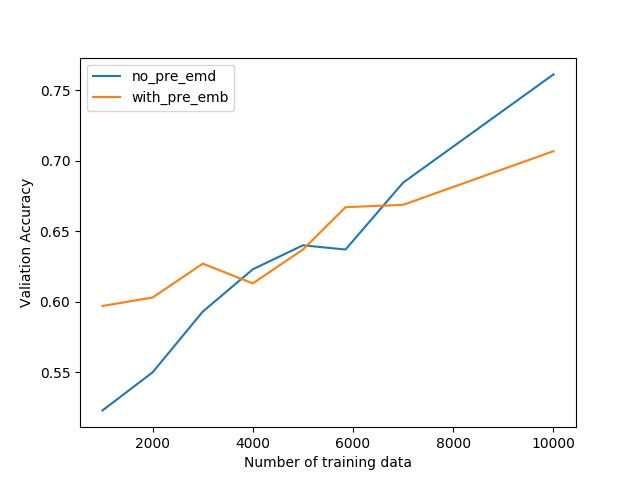
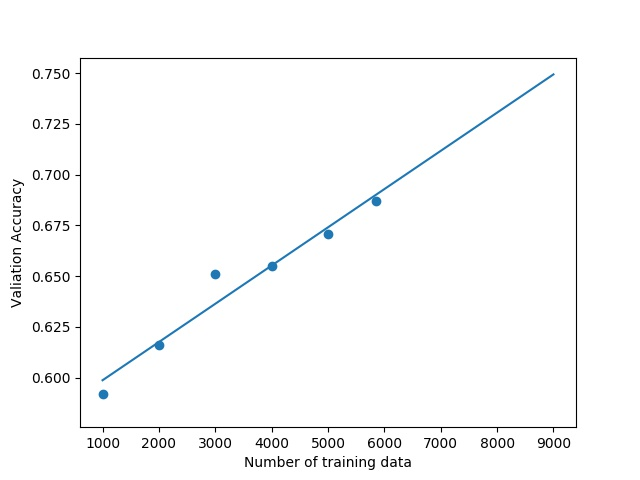
update

diff --git a/Transfer_Learning/Low_Resource_Text_Classification/main.py b/Transfer_Learning/Low_Resource_Text_Classification/main.py
@@ -9,8 +9,8 @@ from model.model import Model
 import numpy as np
 
 #mysterious bugs might occur with tensorflow if not adding full path
-FULL_PATH="D:/PycharmWorkSpace/Gits/Deep_Nature_Language_Processing/Transfer_Learning/Low_Resource_Text_Classification/model/saved_model/"
-PRETRAIN_FULL_PATH="D:/PycharmWorkSpace/Gits/Deep_Nature_Language_Processing/Transfer_Learning/Low_Resource_Text_Classification/model/"
+#FULL_PATH="D:/PycharmWorkSpace/Gits/Deep_Nature_Language_Processing/Transfer_Learning/Low_Resource_Text_Classification/model/saved_model/"
+PRETRAIN_PATH="./model/"
 MODEL_PATH=args.model_path
 RESULT_path=args.result_path
 
@@ -26,7 +26,7 @@ def train(file_name,embedding):
     number_samples=file_name.split("_")[1][:-9]
     model = Model(logger, vocab_size,embedding=embedding)
     classifier = tf.estimator.Estimator(
-        model_fn=model.model_fn,model_dir="C:\\Users\\zt136\\AppData\Local\\Temp\\model_"+number_samples, config=config)
+        model_fn=model.model_fn,model_dir=MODEL_PATH+"model_"+number_samples, config=config)
     for _ in range(args.n_epochs):
         classifier.train(lambda :recordLoader.train_input(file_name))
     logger.info("evaluating model on {} data samples....".format(number_samples))
@@ -42,7 +42,7 @@ def train(file_name,embedding):
 def pre_train(input,embedding):
     model = Model(logger, vocab_size, embedding=embedding)
     classifier = tf.estimator.Estimator(
-        model_fn=model.model_fn, model_dir=PRETRAIN_FULL_PATH + "pretrain", config=config)
+        model_fn=model.model_fn, model_dir=PRETRAIN_PATH + "pretrain", config=config)
     for _ in range(args.n_epochs):
         classifier.train(lambda :lmloader.input_fn(input),steps=args.num_steps)
 
@@ -85,7 +85,7 @@ if __name__ == '__main__':
                 args.load_model = True
                 train(train_files[i],embedding)
     else:
-        DATA_DIR = "F:/360Downloads/dailymail_stories/dailymail/stories/"
+        DATA_DIR = "./embedding/dailymail/stories/"
         PARAMS = {
             'min_freq': 5,
             'percent': 0.01,
@@ -95,10 +95,10 @@ if __name__ == '__main__':
         args.fine_tune = True
         args.amount = 1
         #open domain pretrain
-        # logger.info("start open domain pretraining ...")
-        # for i in range(args.amount):
-        #     index = preprocess_dailymail(i, DATA_DIR, PARAMS)
-        #     pre_train(index,embedding)
+        logger.info("start open domain pretraining ...")
+        for i in range(args.amount):
+            index = preprocess_dailymail(i, DATA_DIR, PARAMS)
+            pre_train(index,embedding)
 
         #in domain pretrain:
         logger.info("start in domain pretraining ...")

diff --git a/Transfer_Learning/Low_Resource_Text_Classification/result/plot.py b/Transfer_Learning/Low_Resource_Text_Classification/result/plot.py
@@ -26,28 +26,34 @@ def predict(nums,acc,pred_nums):
     regr = LinearRegression()
     regr.fit(nums.reshape((-1, 1)), acc)
     pred_acc = regr.predict(pred_nums.reshape((-1, 1)))
-    return pred_acc
+    return pred_acc,regr.coef_,regr.intercept_
 
 def plot_prediction():
-    acc_no_pre_emb,nums_no_pre_emb=load_result("result_no_pre_emb.txt")
-    acc_with_pre_emb,nums_with_pre_emb=load_result("result_with_pre_emb.txt")
-    plt.plot(nums_no_pre_emb,acc_no_pre_emb)
-    plt.plot(nums_with_pre_emb,acc_with_pre_emb)
-    plt.xlabel("Number of training data")
-    plt.ylabel('Valiation Accuracy')
-    plt.legend(["no_pre_emd","with_pre_emb"])
-    plt.savefig("result.jpg")
-    plt.figure()
+    acc_with_pre_emb,nums_with_pre_emb=load_result("result_with_emb_with_pretrain.txt")
+
+    #acc_with_pre_emb,nums_with_pre_emb=load_result("result_with_pre_emb.txt")
+
+    #plt.plot(nums_with_pre_emb,acc_with_pre_emb)
+    # plt.xlabel("Number of training data")
+    # plt.ylabel('Valiation Accuracy')
+    # plt.legend(["no_pre_emd","with_pre_emb"])
+    # plt.savefig("result.jpg")
+    # plt.figure()
     pred_nums = np.array([7000, 8000, 9000, 10000])
-    pred_acc=predict(nums_no_pre_emb,acc_no_pre_emb,pred_nums)
-    plt.plot(np.concatenate((nums_no_pre_emb,pred_nums)), np.concatenate((acc_no_pre_emb,pred_acc)))
-    pred_acc = predict(nums_with_pre_emb, acc_with_pre_emb, pred_nums)
-    plt.plot(np.concatenate((nums_with_pre_emb, pred_nums)), np.concatenate((acc_with_pre_emb, pred_acc)))
+    #pred_acc=predict(nums_no_pre_emb,acc_no_pre_emb,pred_nums)
+    #plt.plot(np.concatenate((nums_no_pre_emb,pred_nums)), np.concatenate((acc_no_pre_emb,pred_acc)))
+    pred_acc,coef, intercept= predict(nums_with_pre_emb, acc_with_pre_emb, pred_nums)
+    #plt.plot(np.concatenate((nums_with_pre_emb, pred_nums)), np.concatenate((acc_with_pre_emb, pred_acc)))
+    plt.scatter(nums_with_pre_emb, acc_with_pre_emb)
+    nums_no_pre_emb = list(nums_with_pre_emb)
+    nums_no_pre_emb.extend([7000, 8000, 9000])
+    nums_no_pre_emb = np.array(nums_no_pre_emb, dtype=np.float32)
+    plt.plot(nums_no_pre_emb, (intercept + coef* nums_no_pre_emb))
     plt.xlabel("Number of training data")
     plt.ylabel('Valiation Accuracy')
-    plt.legend(["no_pre_emd","with_pre_emb"])
+    #plt.legend(["no_pre_emd","with_pre_emb"])
     plt.savefig("prediction.jpg")
-    #plt.show()
+    plt.show()
 
 def plot_confusion_matrix(cm, classes,
                           normalize=False,

diff --git a/Transfer_Learning/Low_Resource_Text_Classification/model/model.py b/Transfer_Learning/Low_Resource_Text_Classification/model/model.py
@@ -164,7 +164,7 @@ class Model(object):
         loss = tf.reduce_sum(mask * tf.nn.sampled_softmax_loss(
             weights=_weights,
             biases=_biases,
-            labels=tf.reshape(labels, [-1, 1]),
+            labels=tf.reshape(labels, [-1, 1]),#[batch_size, num_true]
             inputs=tf.reshape(logits, [-1, args.hidden_size]),
             num_sampled=args.num_sampled,
             num_classes=self.vocab_size,
@@ -245,12 +245,12 @@ class Model(object):
 
     def get_vars(self,params):
         cnn_vars = [var for var in params if "cnn_module" in var.name]
-        other_vars = []
+        other_vars = []#trainable parameters for lstm layers
         lstm_layer = "lstm_module/rnn/multi_rnn_cell/cell_"
         for i in range(args.nlayers):
             vars = [var for var in params if lstm_layer + str(i) in var.name]
             other_vars.append(vars)
-        sm_vars = [var for var in params if "pt_softmax" in var.name]
+        sm_vars = [var for var in params if "pt_softmax" in var.name]#trainable parameters for softmax layers
         #other_vars.append(vars)
         return cnn_vars,other_vars,sm_vars
 

diff --git a/Transfer_Learning/Low_Resource_Text_Classification/data/recordLoader.py b/Transfer_Learning/Low_Resource_Text_Classification/data/recordLoader.py
@@ -30,7 +30,7 @@ class RecordLoader(object):
     def train_input(self,name,batch_size=args.batch_size):
         path=os.path.join(args.save_path,name)
         data=tf.data.TFRecordDataset([path])
-        data=data.map(Parser._parse_train_fn)
+        data=data.map(Parser._parse_train_fn,num_parallel_calls=4)
         #if using FixedLenFeature,then shape should be set to [], as the input len of
         #FixedLenFeature is fixed
         data=data.padded_batch(batch_size,padded_shapes=([args.max_len],[args.max_len],[]))
@@ -43,7 +43,7 @@ class RecordLoader(object):
     def test_input(self,name="test"):
         path=os.path.join(args.save_path,"{}.tfrecord".format(name))
         data=tf.data.TFRecordDataset(path)
-        data.map(Parser._parse_test_fn)
+        data.map(Parser._parse_test_fn,num_parallel_calls=4)
         data = data.padded_batch(args.batch_size, padded_shapes=([args.max_len],[args.max_len]))
         iterator = data.make_one_shot_iterator()
         ans, ques = iterator.get_next()

diff --git a/Transfer_Learning/Low_Resource_Text_Classification/README.md b/Transfer_Learning/Low_Resource_Text_Classification/README.md
@@ -1,2 +1,24 @@
 # Low Resource Text Classification
-This project will deal with data from the Equal Community Foundation:  http://ecf.org.in/. They work with adolescent boys in India to support them in becoming gender equitable adults. They have developed and implement behaviour change programmes and their mission is to raise every boy in India to be gender equitable. In order to extend their programs, they need a way to automatically measure the impact of their interventions. They have developed a survey which consists of ten questions which probe the boys' attitude to violence, masculinity and gender roles. The boys answer these questions with free text, usually a couple of sentences and these sentences are graded from 0 to 3 in terms of how aware and how egalitarian their attitudes are. The grading of these answers needs to be automated but there is very little training data. This project will investigate how to adapt low-resource deep learning techniques such as transfer learning and curriculum learning to this task. 
+This project will deal with data from the Equal Community Foundation:  http://ecf.org.in/. They work with adolescent boys in India to support them in becoming gender equitable adults. They have developed and implement behaviour change programmes and their mission is to raise every boy in India to be gender equitable. In order to extend their programs, they need a way to automatically measure the impact of their interventions. They have developed a survey which consists of ten questions which probe the boys' attitude to violence, masculinity and gender roles. The boys answer these questions with free text, usually a couple of sentences and these sentences are graded from 0 to 3 in terms of how aware and how egalitarian their attitudes are. The grading of these answers needs to be automated but there is very little training data. This project will investigate how to adapt low-resource deep learning techniques such as transfer learning and curriculum learning to this task.
+
+
+**Requirements:**
+
+* Python 3
+* TensorFlow >= 1.4
+* nltk
+
+
+**1. pre train word embedding(optional):**
+  ```
+  python train_skip.py
+  ```
+**2. pre train C-LSTMs:**
+  ```
+  python main.py --pretrain true
+  ```
+
+**3. fine tune C-LSTMs:**
+  ```
+  python main.py --pretrain false
+  ```
